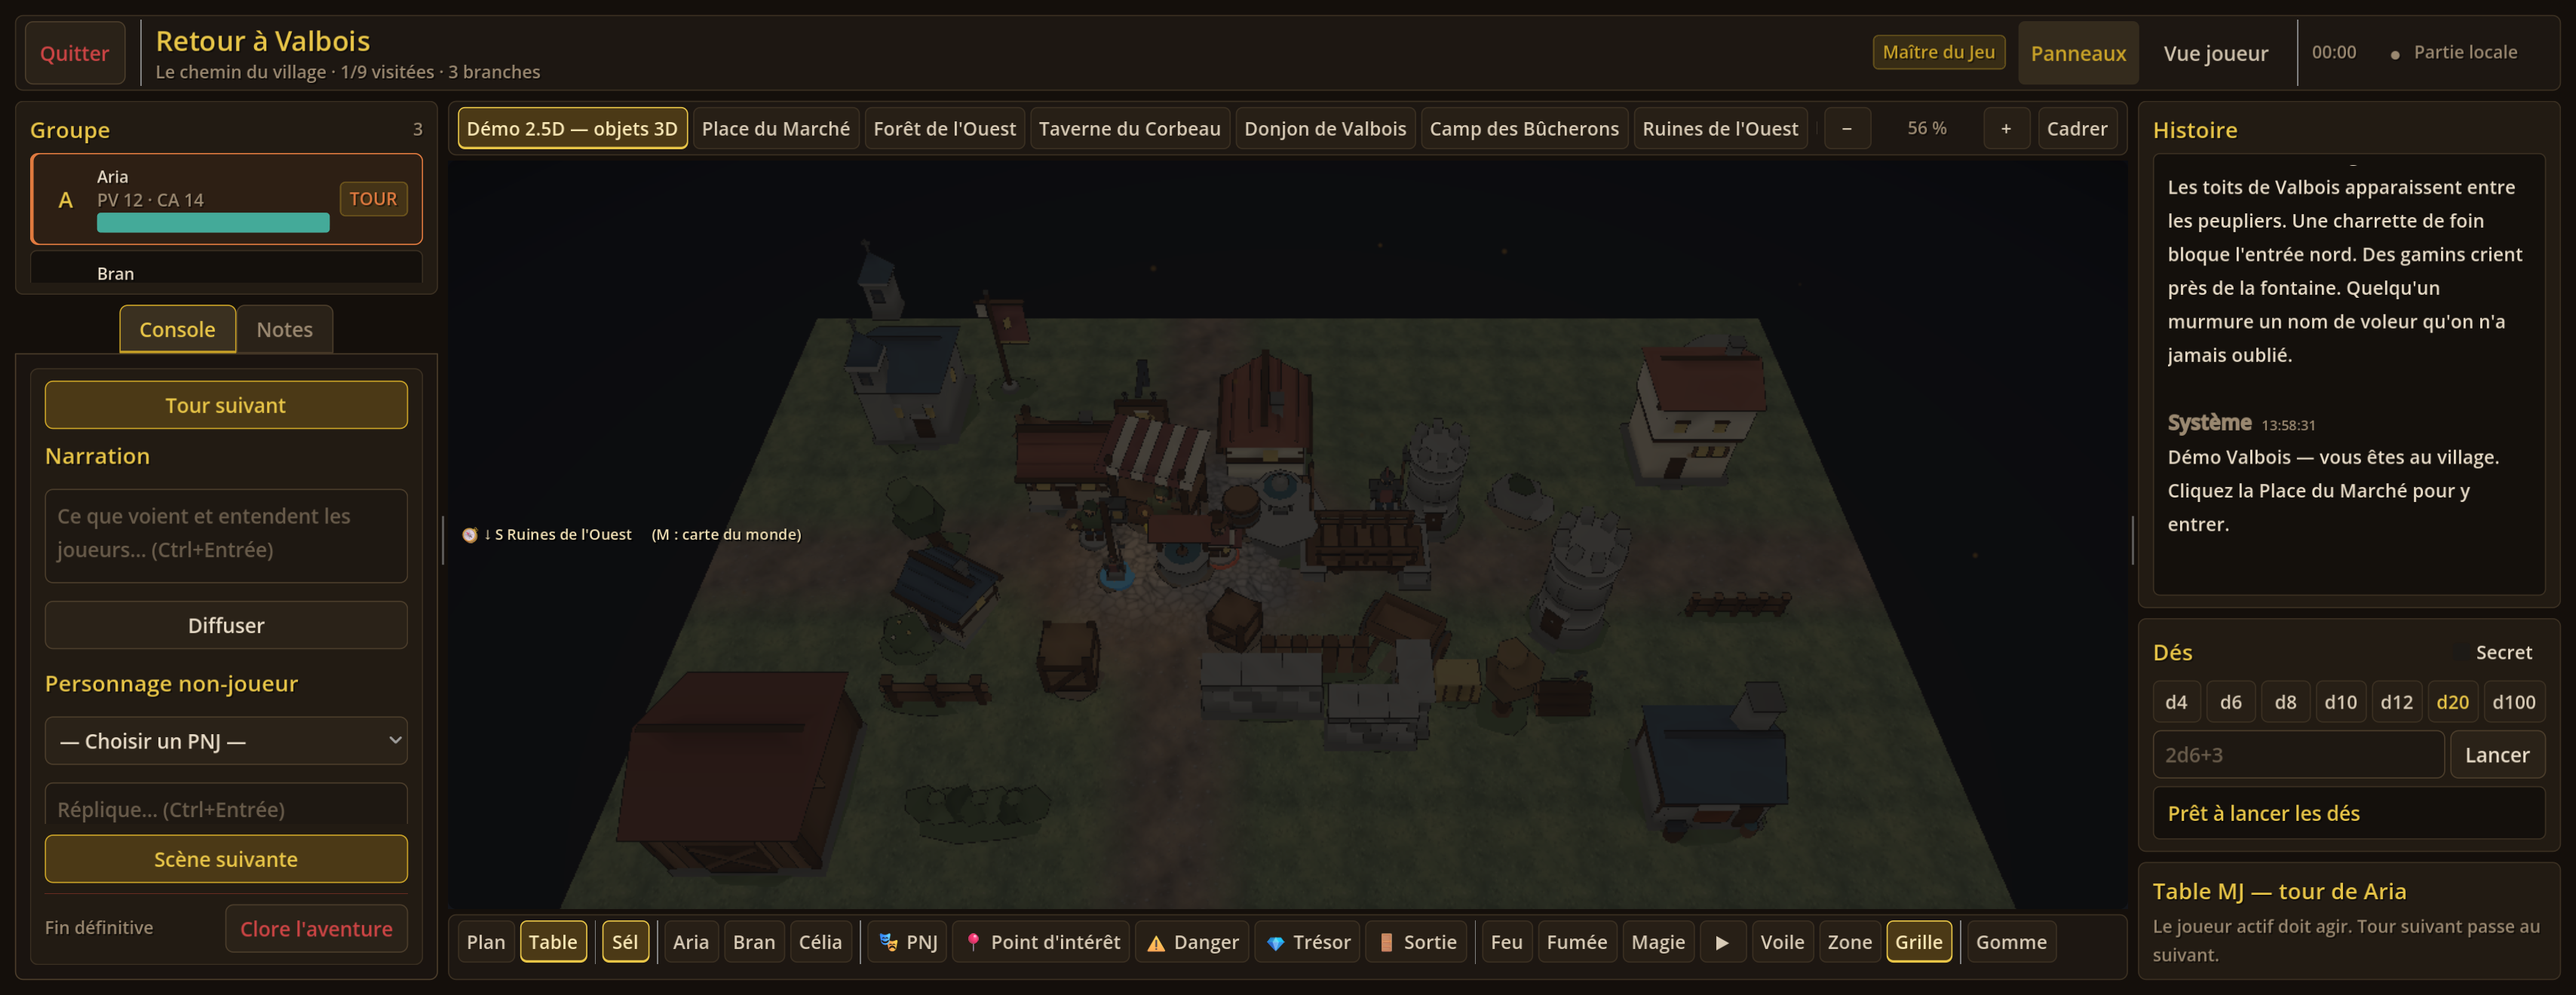
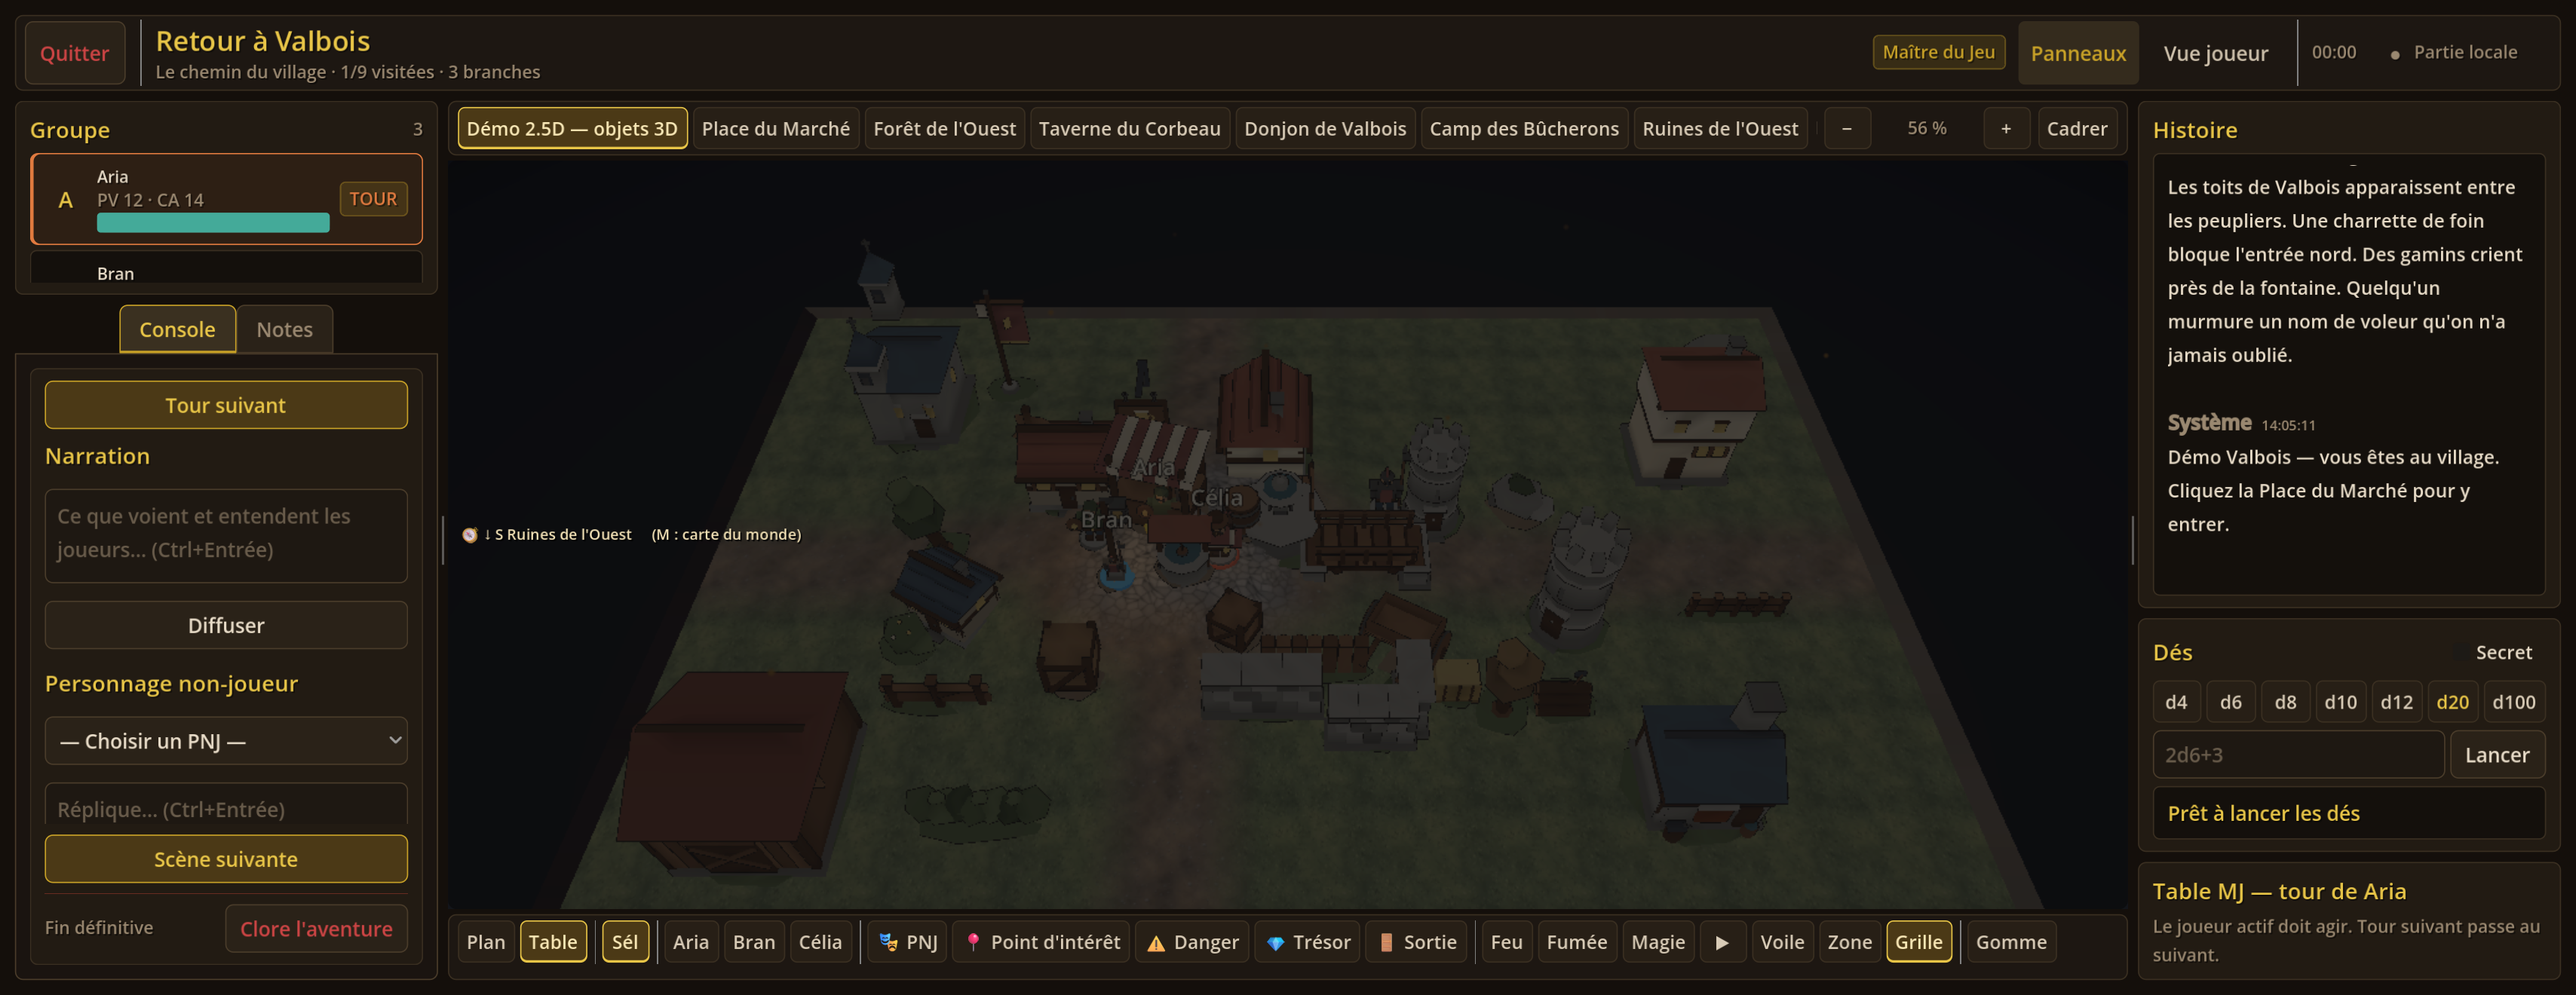
feat(session): nom flottant au-dessus des figurines en 2.5D

diff --git a/docs/GUIDE_CARTE_25D.md b/docs/GUIDE_CARTE_25D.md
@@ -82,7 +82,8 @@ palette Valbois. Voir [BLENDER_PIPELINE.md](./BLENDER_PIPELINE.md).
   fondu noir + nom de la zone.
 - Les membres sans portrait sont rendus en **figurines 3D par classe**
   (aventurier, archère, mage, voleuse, prêtresse, garde, marchand, villageoise),
-  les créatures (gobelin, squelette) par leur nom.
+  avec leur **nom flottant** au-dessus ; les créatures (gobelin, squelette) par
+  leur nom.
 
 ## 6. Sauvegarde et limites
 
